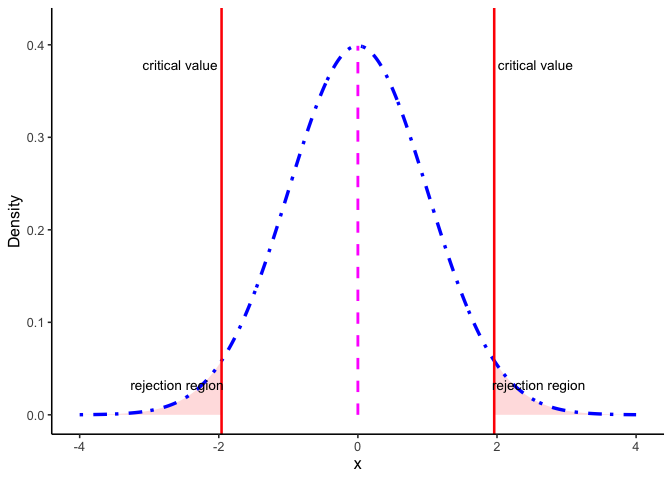
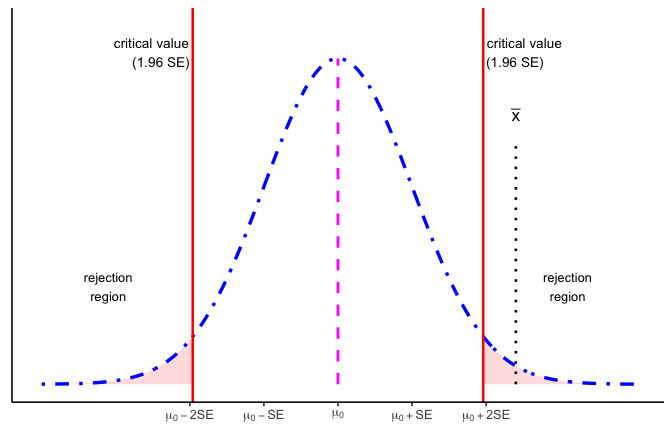
Ch4: build the H0 sampling distribution in Route 1 (Meretsky's approach); restore the Ha-claims tails figure
- drop the forward-referenced 'partner' from the four distributions and key
- Route 1 introduces the sampling distribution of the sample mean under H0 where
  it is used: center from H0, spread = SE, marked in SEs, critical values,
  rejection regions, observed x-bar, and z as the distance in SEs
- tails: Meretsky's picture restored (possible true populations under Ha in
  orange) ahead of the where-alpha-goes figure

diff --git a/docs/04-Foundation_Inference.html b/docs/04-Foundation_Inference.html
@@ -455,7 +455,7 @@ Figure&nbsp;4.5: Decision boundaries applied to the histogram of mean count diff
 </ul>
 <p><strong>New here:</strong></p>
 <ul>
-<li><strong>Null population distribution.</strong> The population distribution we would have <em>if <span class="math inline">\(H_0\)</span> were true</em>: centered at <span class="math inline">\(\mu_0\)</span>, and as wide as the population itself. In the figures below it is the blue curve. It has a partner, the <strong>sampling distribution of the sample mean under <span class="math inline">\(H_0\)</span></strong>, which describes what <span class="math inline">\(\bar{x}\)</span> would look like across many samples drawn from that null population. That partner is what replaces the simulated chance window, and we put it to work later in the chapter when we test <span class="math inline">\(H_0\)</span>.</li>
+<li><strong>Null population distribution.</strong> The population distribution we would have <em>if <span class="math inline">\(H_0\)</span> were true</em>: centered at <span class="math inline">\(\mu_0\)</span>, and as wide as the population itself. In the figures below it is the blue curve.</li>
 </ul>
 </section>
 <section id="seeing-all-four-at-once" class="level3" data-number="4.3.4">
@@ -470,7 +470,6 @@ Figure&nbsp;4.5: Decision boundaries applied to the histogram of mean count diff
 <li><strong>Dark-green dot-dashed line</strong> = Sampling distribution of the sample mean, <span class="math inline">\(\bar{x}\)</span>.</li>
 <li><strong>Magenta dashed line</strong> = Hypothesized mean <span class="math inline">\(\mu_0\)</span> (under <span class="math inline">\(H_0\)</span>).</li>
 </ul>
-<p>Two more elements join later in the chapter: a blue dot-dashed line for the sampling distribution of the sample mean under <span class="math inline">\(H_0\)</span>, and a thick dark-green bar for the confidence interval.</p>
 <p><strong>1. The null population distribution.</strong></p>
 <p>Start with the null population distribution: the population we would have if <span class="math inline">\(H_0\)</span> were true. Its center, <span class="math inline">\(\mu_0\)</span> (magenta dashed line), comes from <span class="math inline">\(H_0\)</span> itself. Its spread is the population standard deviation, <span class="math inline">\(\sigma\)</span>. In practice <span class="math inline">\(\sigma\)</span> is almost never known and the sample’s standard deviation stands in for it; this chapter treats <span class="math inline">\(\sigma\)</span> as known as a simplification. The <span class="math inline">\(t\)</span>-tests in Chapter 6 are the adjustment used in practice.</p>
 <div class="cell">
@@ -598,7 +597,8 @@ Figure&nbsp;4.10: Key elements of hypothesis testing graphs: null population (bl
 </section>
 <section id="route-1-test-statistic-and-critical-values" class="level3" data-number="4.4.3">
 <h3 data-number="4.4.3" class="anchored" data-anchor-id="route-1-test-statistic-and-critical-values"><span class="header-section-number">4.4.3</span> Route 1: test statistic and critical values</h3>
-<p><a href="#fig-rejection-region" class="quarto-xref">Figure&nbsp;<span>4.11</span></a> shows how these ideas come together in a two-sided test. The blue dot-dash curve is the partner promised earlier: the sampling distribution of the sample mean under <span class="math inline">\(H_0\)</span>. Like the null population distribution it is centered at <span class="math inline">\(\mu_0\)</span>, but it is narrower, with a spread of one standard error. It is the formal version of the chance window: instead of simulating the differences chance can produce, we assume a distribution and read them off it. The dashed magenta line marks the expected center at <span class="math inline">\(\mu_0\)</span>. The red vertical lines are the <strong>critical values</strong> for <span class="math inline">\(\alpha = 0.05\)</span>. They cut off the most extreme 5% of the distribution: 2.5% in each tail. Those shaded tails are the <strong>rejection regions</strong>.</p>
+<p>Critical values need one more curve: the <strong>sampling distribution of the sample mean under <span class="math inline">\(H_0\)</span></strong>, which describes what <span class="math inline">\(\bar{x}\)</span> would look like across many samples if <span class="math inline">\(H_0\)</span> were true. Its center, <span class="math inline">\(\mu_0\)</span>, comes from <span class="math inline">\(H_0\)</span>. Its spread is the standard error, <span class="math inline">\(\sigma/\sqrt{n}\)</span>. This curve is the formal version of the chance window: instead of simulating the differences chance can produce, we assume a distribution and read them off it.</p>
+<p><a href="#fig-rejection-region" class="quarto-xref">Figure&nbsp;<span>4.11</span></a> draws it for a two-sided test at <span class="math inline">\(\alpha = 0.05\)</span>, marked off in standard errors from <span class="math inline">\(\mu_0\)</span>. The red lines are the <strong>critical values</strong>, 1.96 standard errors on either side of <span class="math inline">\(\mu_0\)</span>. They cut off the most extreme 5% of the curve, 2.5% in each tail, and those shaded tails are the <strong>rejection regions</strong>. Here the observed <span class="math inline">\(\bar{x}\)</span> (dotted line) lands 2.4 standard errors above <span class="math inline">\(\mu_0\)</span>, inside the right-hand rejection region. Counting that distance in standard errors is exactly the test statistic from earlier, <span class="math inline">\(z = (\bar{x} - \mu_0)/SE = 2.4\)</span>.</p>
 <p>Here’s the decision rule:</p>
 <ul>
 <li>If the observed test statistic falls inside the central region, we <strong>fail to reject</strong> <span class="math inline">\(H_0\)</span> because the result is consistent with chance variation.</li>
@@ -607,13 +607,13 @@ Figure&nbsp;4.10: Key elements of hypothesis testing graphs: null population (bl
 <p>This picture makes clear why <span class="math inline">\(\alpha\)</span> and the <span class="math inline">\(p\)</span>-value are linked. <span class="math inline">\(\alpha\)</span> sets the cutoff for how extreme is “too extreme,” while the <span class="math inline">\(p\)</span>-value tells us how far into the tails our actual result lies.</p>
 <div class="cell">
 <div class="cell-output-display">
-<div id="fig-rejection-region" class="quarto-float quarto-figure quarto-figure-center anchored" alt="A blue dot-dash bell curve centered at mu sub 0, marked with a dashed vertical line at its center. Two red vertical lines sit symmetrically in the tails, each labeled critical value, with the shaded area beyond each one labeled rejection region. The large middle portion of the curve between the two red lines is unshaded.">
+<div id="fig-rejection-region" class="quarto-float quarto-figure quarto-figure-center anchored" alt="A blue dot-dash bell curve centered on a magenta dashed line labeled mu sub 0. The x-axis is marked mu sub 0 minus 2 SE, minus 1 SE, mu sub 0, plus 1 SE, plus 2 SE. Red vertical lines at plus and minus 1.96 SE, each labeled critical value, with the small tail areas beyond them shaded red and labeled rejection region. A black dotted line labeled x-bar sits at 2.4 SE, inside the right-hand shaded region.">
 <figure class="quarto-float quarto-float-fig figure">
 <div aria-describedby="fig-rejection-region-caption-0ceaefa1-69ba-4598-a22c-09a6ac19f8ca">
-<img src="04-Foundation_Inference_files/figure-html/fig-rejection-region-1.png" class="img-fluid figure-img" style="width:75.0%" alt="A blue dot-dash bell curve centered at mu sub 0, marked with a dashed vertical line at its center. Two red vertical lines sit symmetrically in the tails, each labeled critical value, with the shaded area beyond each one labeled rejection region. The large middle portion of the curve between the two red lines is unshaded.">
+<img src="04-Foundation_Inference_files/figure-html/fig-rejection-region-1.png" class="img-fluid figure-img" style="width:75.0%" alt="A blue dot-dash bell curve centered on a magenta dashed line labeled mu sub 0. The x-axis is marked mu sub 0 minus 2 SE, minus 1 SE, mu sub 0, plus 1 SE, plus 2 SE. Red vertical lines at plus and minus 1.96 SE, each labeled critical value, with the small tail areas beyond them shaded red and labeled rejection region. A black dotted line labeled x-bar sits at 2.4 SE, inside the right-hand shaded region.">
 </div>
 <figcaption class="quarto-float-caption-bottom quarto-float-caption quarto-float-fig" id="fig-rejection-region-caption-0ceaefa1-69ba-4598-a22c-09a6ac19f8ca">
-Figure&nbsp;4.11: Two-sided test: blue dot-dash curve is the sampling distribution of the sample mean under <span class="math inline">\(H_0\)</span> (centered at <span class="math inline">\(\mu_0\)</span>). Magenta dashed line marks <span class="math inline">\(\mu_0\)</span>. Red vertical lines mark the critical values for <span class="math inline">\(\alpha=0.05\)</span>; shaded tails are the rejection regions.
+Figure&nbsp;4.11: Two-sided test at <span class="math inline">\(\alpha = 0.05\)</span>: the sampling distribution of the sample mean under <span class="math inline">\(H_0\)</span> (blue dot-dash), centered at <span class="math inline">\(\mu_0\)</span> (magenta) and marked off in standard errors. Red lines are the critical values at <span class="math inline">\(\pm 1.96\)</span> SE; the shaded tails are the rejection regions. The observed <span class="math inline">\(\bar{x}\)</span> (dotted) falls 2.4 SE above <span class="math inline">\(\mu_0\)</span>, in the rejection region.
 </figcaption>
 </figure>
 </div>
@@ -685,7 +685,22 @@ Figure&nbsp;4.14: p-value lens: the two-sided <span class="math inline">\(p\)</s
 </section>
 <section id="sec-tails" class="level2" data-number="4.5">
 <h2 data-number="4.5" class="anchored" data-anchor-id="sec-tails"><span class="header-section-number">4.5</span> One- and Two-Tailed Tests</h2>
-<p>A two-tailed test splits <span class="math inline">\(\alpha\)</span> between both tails of the sampling distribution of the sample mean under <span class="math inline">\(H_0\)</span>. A one-tailed test puts all of <span class="math inline">\(\alpha\)</span> in the one tail <span class="math inline">\(H_a\)</span> points toward (<a href="#fig-4tails" class="quarto-xref">Figure&nbsp;<span>4.15</span></a>).</p>
+<p><span class="math inline">\(H_a\)</span> is a claim about where the true population could sit. A two-tailed alternative says it might sit below <span class="math inline">\(\mu_0\)</span> or above it. A one-tailed alternative says it can only sit on one side (<a href="#fig-4tails-claims" class="quarto-xref">Figure&nbsp;<span>4.15</span></a>).</p>
+<div class="cell">
+<div class="cell-output-display">
+<div id="fig-4tails-claims" class="quarto-float quarto-figure quarto-figure-center anchored" alt="Three panels. Left, titled H sub a colon mu not equal to mu sub 0: a blue bell curve in the center with an orange dashed bell curve of the same shape shifted to each side. Middle, titled H sub a colon mu less than mu sub 0: the blue curve with one orange dashed curve to its left. Right, titled H sub a colon mu greater than mu sub 0: the blue curve with one orange dashed curve to its right.">
+<figure class="quarto-float quarto-float-fig figure">
+<div aria-describedby="fig-4tails-claims-caption-0ceaefa1-69ba-4598-a22c-09a6ac19f8ca">
+<img src="04-Foundation_Inference_files/figure-html/fig-4tails-claims-1.png" class="img-fluid figure-img" style="width:100.0%" alt="Three panels. Left, titled H sub a colon mu not equal to mu sub 0: a blue bell curve in the center with an orange dashed bell curve of the same shape shifted to each side. Middle, titled H sub a colon mu less than mu sub 0: the blue curve with one orange dashed curve to its left. Right, titled H sub a colon mu greater than mu sub 0: the blue curve with one orange dashed curve to its right.">
+</div>
+<figcaption class="quarto-float-caption-bottom quarto-float-caption quarto-float-fig" id="fig-4tails-claims-caption-0ceaefa1-69ba-4598-a22c-09a6ac19f8ca">
+Figure&nbsp;4.15: What <span class="math inline">\(H_a\)</span> claims. The null population distribution (blue) sits at <span class="math inline">\(\mu_0\)</span>. The orange dashed curves are possible true population distributions under <span class="math inline">\(H_a\)</span>: on either side for a two-tailed alternative (left), on one side only for a one-tailed alternative (middle and right).
+</figcaption>
+</figure>
+</div>
+</div>
+</div>
+<p>The test handles those claims through where <span class="math inline">\(\alpha\)</span> goes. A two-tailed test splits <span class="math inline">\(\alpha\)</span> between both tails of the sampling distribution of the sample mean under <span class="math inline">\(H_0\)</span>. A one-tailed test puts all of <span class="math inline">\(\alpha\)</span> in the one tail <span class="math inline">\(H_a\)</span> points toward (<a href="#fig-4tails" class="quarto-xref">Figure&nbsp;<span>4.16</span></a>).</p>
 <div class="cell">
 <div class="cell-output-display">
 <div id="fig-4tails" class="quarto-float quarto-figure quarto-figure-center anchored" alt="Two panels, each a blue dot-dash bell curve centered on a magenta dashed line. Left panel, titled two-tailed with an arrow pointing both ways: small red shaded areas in both tails beyond red vertical lines at minus 1.96 and plus 1.96. Right panel, titled one-tailed with an arrow pointing right: a single, larger red shaded area in the right tail beyond a red vertical line at 1.645, which sits closer to the center than 1.96.">
@@ -694,7 +709,7 @@ Figure&nbsp;4.14: p-value lens: the two-sided <span class="math inline">\(p\)</s
 <img src="04-Foundation_Inference_files/figure-html/fig-4tails-1.png" class="img-fluid figure-img" style="width:100.0%" alt="Two panels, each a blue dot-dash bell curve centered on a magenta dashed line. Left panel, titled two-tailed with an arrow pointing both ways: small red shaded areas in both tails beyond red vertical lines at minus 1.96 and plus 1.96. Right panel, titled one-tailed with an arrow pointing right: a single, larger red shaded area in the right tail beyond a red vertical line at 1.645, which sits closer to the center than 1.96.">
 </div>
 <figcaption class="quarto-float-caption-bottom quarto-float-caption quarto-float-fig" id="fig-4tails-caption-0ceaefa1-69ba-4598-a22c-09a6ac19f8ca">
-Figure&nbsp;4.15: Where <span class="math inline">\(\alpha\)</span> goes. Both panels show the sampling distribution of the sample mean under <span class="math inline">\(H_0\)</span> (blue dot-dash), in standard-error units. Left, two-tailed (<span class="math inline">\(H_a:\ \mu \neq \mu_0\)</span>): <span class="math inline">\(\alpha/2\)</span> in each tail, critical values at <span class="math inline">\(\pm 1.96\)</span>. Right, one-tailed (<span class="math inline">\(H_a:\ \mu &gt; \mu_0\)</span>): all of <span class="math inline">\(\alpha\)</span> in the right tail, critical value at 1.645.
+Figure&nbsp;4.16: Where <span class="math inline">\(\alpha\)</span> goes. Both panels show the sampling distribution of the sample mean under <span class="math inline">\(H_0\)</span> (blue dot-dash), in standard-error units. Left, two-tailed (<span class="math inline">\(H_a:\ \mu \neq \mu_0\)</span>): <span class="math inline">\(\alpha/2\)</span> in each tail, critical values at <span class="math inline">\(\pm 1.96\)</span>. Right, one-tailed (<span class="math inline">\(H_a:\ \mu &gt; \mu_0\)</span>): all of <span class="math inline">\(\alpha\)</span> in the right tail, critical value at 1.645.
 </figcaption>
 </figure>
 </div>
@@ -727,7 +742,7 @@ Figure&nbsp;4.15: Where <span class="math inline">\(\alpha\)</span> goes. Both p
 <img src="04-Foundation_Inference_files/figure-html/fig-4key.reject_2_two_tailed-1.png" class="img-fluid figure-img" style="width:100.0%" alt="A blue null population distribution centered at mu sub 0, marked with a dashed vertical line, well separated from a narrow dot-dash sampling distribution and dashed estimated population curve centered far to the left. A thick green confidence interval bar under those two curves sits entirely to the left of mu sub 0, not reaching it at all.">
 </div>
 <figcaption class="quarto-float-caption-bottom quarto-float-caption quarto-float-fig" id="fig-4key.reject_2_two_tailed-caption-0ceaefa1-69ba-4598-a22c-09a6ac19f8ca">
-Figure&nbsp;4.16: Two-sided test, reject <span class="math inline">\(H_0\)</span>: sample mean far from <span class="math inline">\(\mu_0\)</span> in either direction.
+Figure&nbsp;4.17: Two-sided test, reject <span class="math inline">\(H_0\)</span>: sample mean far from <span class="math inline">\(\mu_0\)</span> in either direction.
 </figcaption>
 </figure>
 </div>
@@ -744,7 +759,7 @@ Figure&nbsp;4.16: Two-sided test, reject <span class="math inline">\(H_0\)</span
 <img src="04-Foundation_Inference_files/figure-html/fig-4key.reject_1-1.png" class="img-fluid figure-img" style="width:100.0%" alt="A blue null population distribution centered at mu sub 0, marked with a dashed vertical line, overlapping closely with a wider dot-dash sampling distribution and dashed estimated population curve centered a short distance to its left. A thick green confidence interval bar under those two curves extends far enough to reach and include mu sub 0.">
 </div>
 <figcaption class="quarto-float-caption-bottom quarto-float-caption quarto-float-fig" id="fig-4key.reject_1-caption-0ceaefa1-69ba-4598-a22c-09a6ac19f8ca">
-Figure&nbsp;4.17: Two-sided test, fail to reject <span class="math inline">\(H_0\)</span>: sample mean not greater than critical value (within <span class="math inline">\(3\,SE\)</span> from <span class="math inline">\(\mu_0\)</span>).
+Figure&nbsp;4.18: Two-sided test, fail to reject <span class="math inline">\(H_0\)</span>: sample mean not greater than critical value (within <span class="math inline">\(3\,SE\)</span> from <span class="math inline">\(\mu_0\)</span>).
 </figcaption>
 </figure>
 </div>
